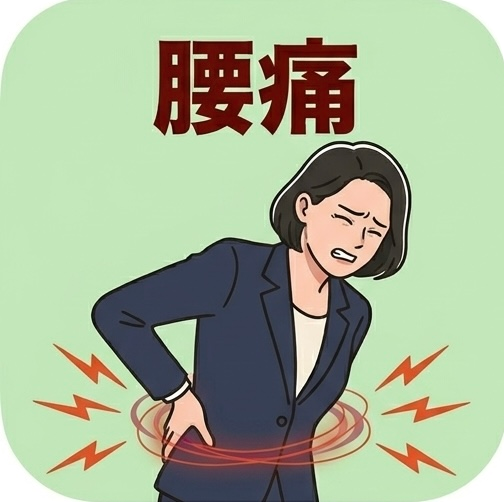
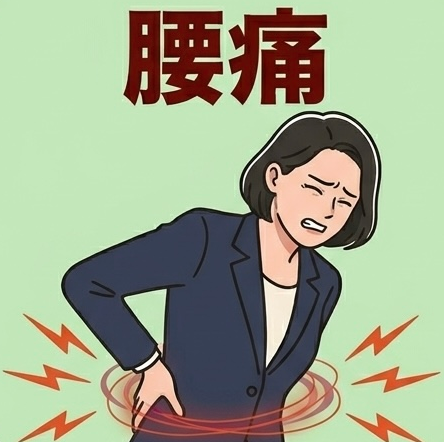
角の白い余白を完全に除去
- 元画像の白い角部分をクロップで切り落とし
- CSSのrounded-2xlで角丸を再現

diff --git a/src/app/page.tsx b/src/app/page.tsx
@@ -155,8 +155,8 @@ function HomeScreen({ onNavigate, onSelectSymptom }: { onNavigate: (s: Screen) =
                 className="font-semibold transition-all active:scale-95"
               >
                 {/* eslint-disable-next-line @next/next/no-img-element */}
-                <img src={symptom.icon} alt={symptom.label} className="w-full aspect-square object-cover"  />
-                <p className="text-sm font-bold pt-2 pb-1 text-center bg-gray-800 rounded-b-xl mt-[-4px] text-white">{symptom.label}</p>
+                <img src={symptom.icon} alt={symptom.label} className="w-full aspect-square object-cover rounded-2xl" />
+                <p className="text-sm font-bold py-2 text-center text-white">{symptom.label}</p>
               </button>
             ))}
           </div>
@@ -395,8 +395,8 @@ function SelfcareScreen({ onNavigate, initialSymptomId }: { onNavigate: (s: Scre
             }`}
           >
             {/* eslint-disable-next-line @next/next/no-img-element */}
-            <img src={symptom.icon} alt={symptom.label} className="w-full aspect-square object-cover"  />
-            <p className={`text-sm font-bold pt-2 pb-1 text-center bg-gray-800 rounded-b-xl mt-[-4px] ${selectedId === symptom.id ? "text-blue-400" : "text-white"}`}>{symptom.label}</p>
+            <img src={symptom.icon} alt={symptom.label} className="w-full aspect-square object-cover rounded-2xl" />
+            <p className={`text-sm font-bold py-2 text-center ${selectedId === symptom.id ? "text-blue-400" : "text-white"}`}>{symptom.label}</p>
           </button>
         ))}
       </div>
